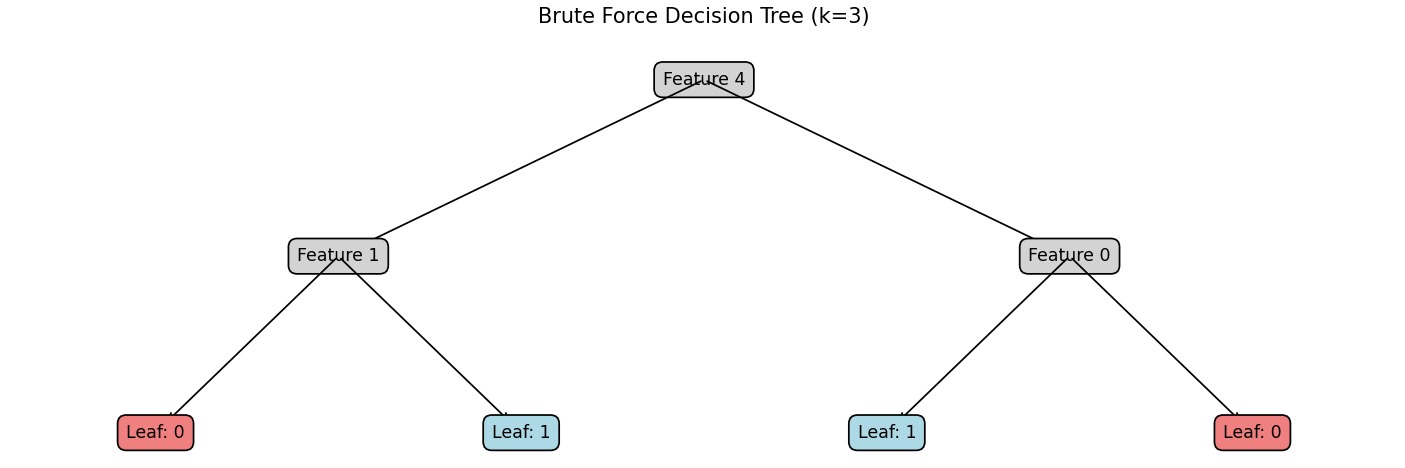
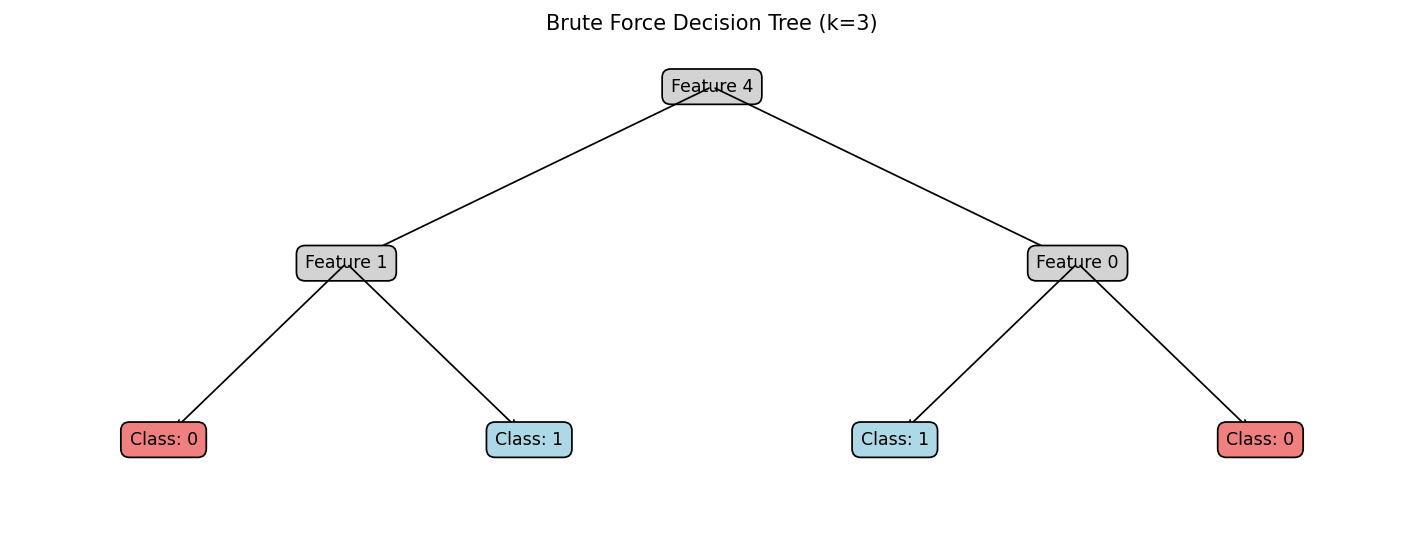
combined brute-force subtrees

diff --git a/decision_trees.py b/decision_trees.py
@@ -87,6 +87,9 @@ def brute_force_tree(X, y, k):
     initial_indices = frozenset(range(n_samples))
     best_tree = build_tree(0, initial_indices)
     
+    # Combine subtrees to simplify the tree
+    combine_subtrees(best_tree)
+    
     # Calculate the overall error of the tree
     best_error = calculate_tree_error(best_tree, X, y)
     
@@ -164,7 +167,7 @@ def plot_tree(tree, title):
     def plot_node(ax, node, x, y, dx, dy):
         if isinstance(node, (int, float)):  # Leaf node
             color = 'lightcoral' if node == 0 else 'lightblue'
-            ax.text(x, y, f'Leaf: {node}', ha='center', va='center',
+            ax.text(x, y, f'Class: {node}', ha='center', va='center',
                     bbox=dict(boxstyle='round,pad=0.5', fc=color, ec='black'))
             
         elif isinstance(node, list) and len(node) == 3:  # Internal node
@@ -181,7 +184,7 @@ def plot_tree(tree, title):
                         arrowprops=dict(arrowstyle='<-'), ha='center', va='center')
             plot_node(ax, node[2], x+dx, y-dy, dx/2, dy)
             
-        else:
+        else:  # Leaf node
             color = 'lightcoral' if node == 0 else 'lightblue'
             ax.text(x, y, f'Class: {node}', ha='center', va='center',
                     bbox=dict(boxstyle='round,pad=0.5', fc=color, ec='black'))
@@ -265,11 +268,12 @@ def run_decision_tree_comparisons(X, y, ks):
         plt.grid(True)
         plt.show()
     
-    # plot success rates
-    plot_comparisons(success_rates_brute, success_rates_entropy, 'Success Rate (%)') 
-    
-    # plot elapsed times
-    plot_comparisons(elapsed_times_brute, elapsed_times_entropy, 'Elapsed Time (s)') 
+    if(len(ks) > 1):
+        # plot success rates
+        plot_comparisons(success_rates_brute, success_rates_entropy, 'Success Rate (%)') 
+        
+        # plot elapsed times
+        plot_comparisons(elapsed_times_brute, elapsed_times_entropy, 'Elapsed Time (s)') 
     
 # Main function to run the algorithms and visualize the results
 if __name__ == "__main__":
